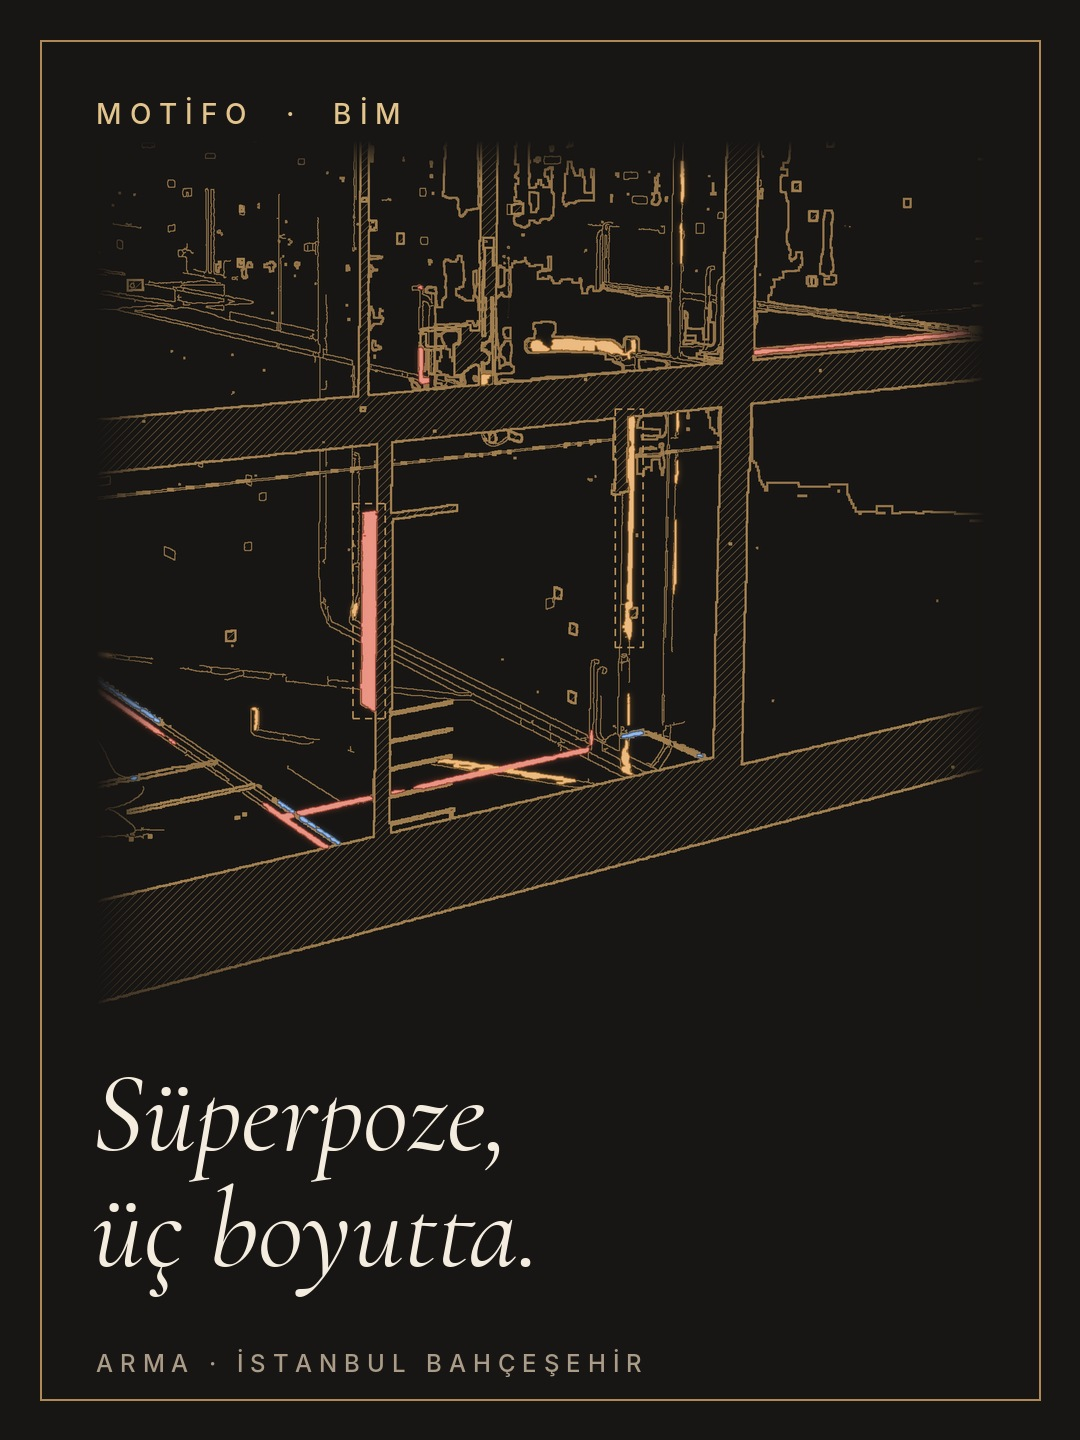
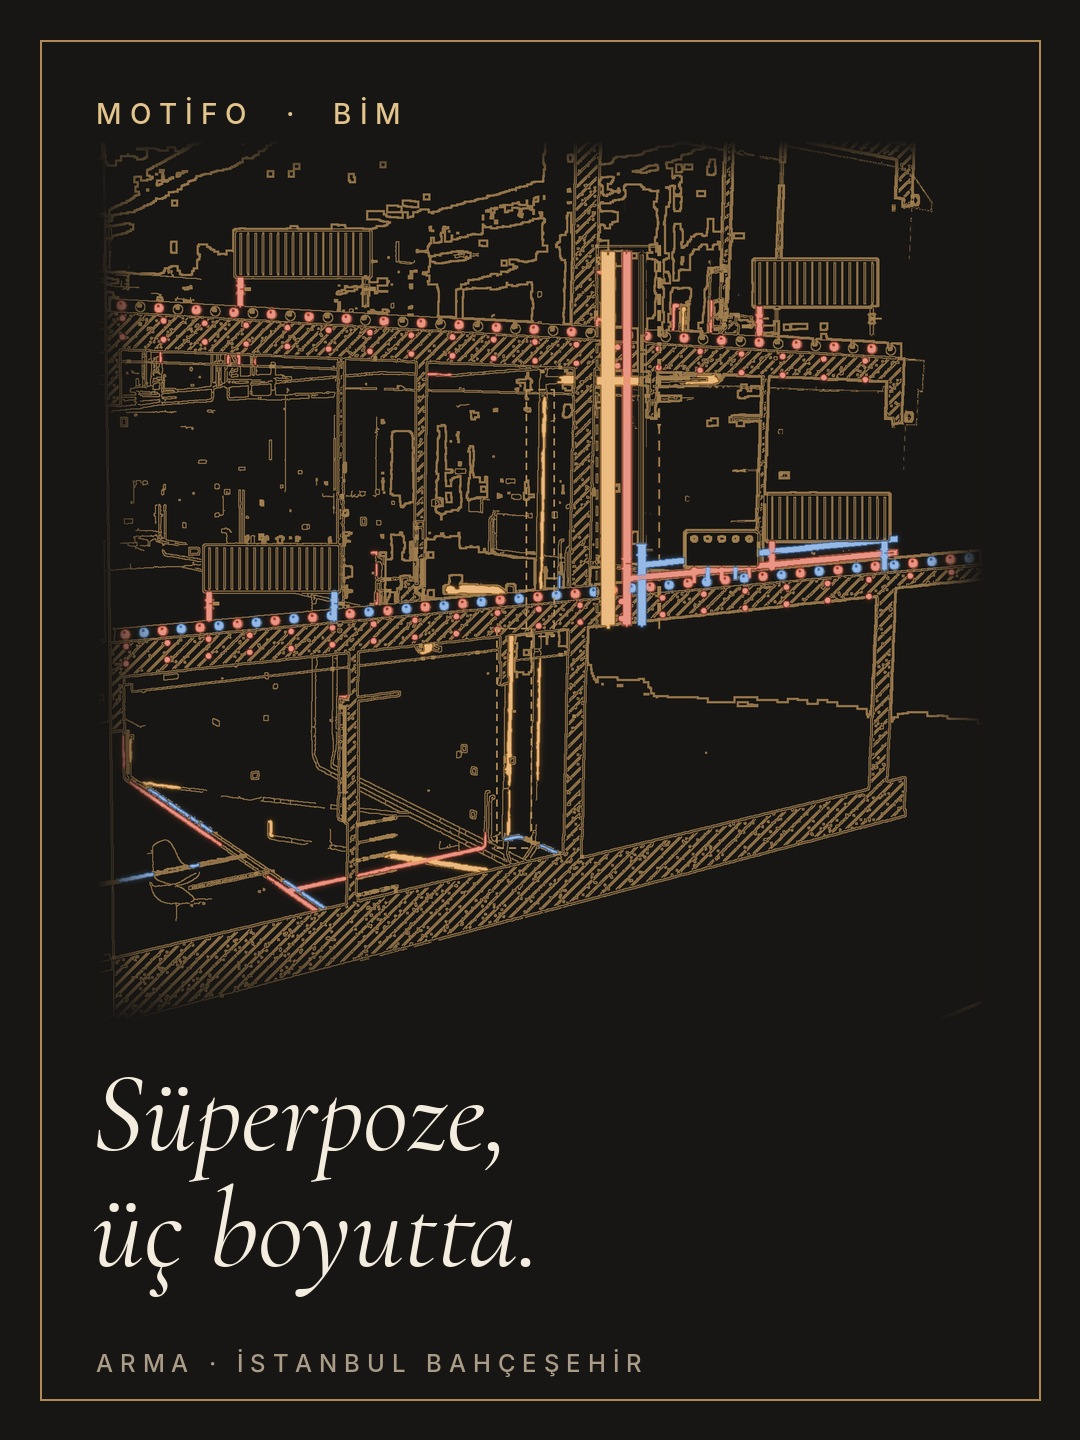
BİM görseli yeniden oluşturma: betonarme kesit, yerden ısıtma, şaft, vana, kollektör, radyatör
Claude-Session: https://claude.ai/code/session_0153ZLKWfsGDyD3Fcx9smq56

Changed region(s): [[0.0917, 0.0938, 0.9167, 0.7188], [0.7944, 0.0938, 0.8556, 0.1562], [0.2444, 0.0938, 0.275, 0.125]]

diff --git a/araclar/bim2d/zengin.py b/araclar/bim2d/zengin.py
@@ -1,0 +1,103 @@
+# Arma BİM görüntüsünü yeniden oluştur: siyah kesit → renkli betonarme, şap içi yerden ısıtma,
+# şaft + kolonlar + vanalar, radyatör, kollektör; mevcut boruları kalınlaştır/parlat.
+import numpy as np, cv2
+from PIL import Image, ImageDraw, ImageFilter
+RED=(206,62,46); BLUE=(44,104,196); ORNG=(226,150,52); GREEN=(64,150,92)
+def tube(d,pts,col,w):
+    d.line(pts,fill=col,width=w,joint='curve')
+    hl=tuple(min(255,int(c*0.45+255*0.55)) for c in col)
+    d.line([(x,y-w*0.22) for x,y in pts],fill=hl,width=max(1,w//4),joint='curve')
+    dk=tuple(int(c*0.6) for c in col)
+    d.line([(x,y+w*0.3) for x,y in pts],fill=dk,width=max(1,w//5),joint='curve')
+def valve(d,x,y,col,s=12,yatay=False):
+    if yatay: d.polygon([(x-s,y-s),(x+s,y+s),(x+s,y-s),(x-s,y+s)],fill=col,outline=(30,28,26))
+    else: d.polygon([(x-s,y-s),(x+s,y-s),(x-s,y+s),(x+s,y+s)],fill=col,outline=(30,28,26))
+    d.line([(x,y),(x+(0 if yatay else s+8),y-(s+8 if yatay else 0))],fill=(30,28,26),width=3)
+def concrete(shape,seed=3):
+    rng=np.random.default_rng(seed); h,w=shape
+    base=np.ones((h,w,3),np.float32)*np.array([184,178,168],np.float32)
+    n=cv2.GaussianBlur(rng.standard_normal((h,w)).astype(np.float32),(0,0),2.5)*9
+    base+=n[...,None]
+    agg=(rng.random((h,w))>0.993).astype(np.uint8); agg=cv2.dilate(agg,np.ones((3,3),np.uint8))
+    base[agg>0]=base[agg>0]*0.72
+    yy,xx=np.mgrid[0:h,0:w]; hatch=((xx+yy)%18<2)
+    base[hatch]=base[hatch]*0.82
+    return base
+def slab_edges(mask):
+    """Geniş yatay koyu bileşenler için üst kenar doğrusu (y=a*x+b) ve x aralığı."""
+    mask=cv2.morphologyEx(mask,cv2.MORPH_OPEN,np.ones((1,90),np.uint8))
+    nl,lab,st,_=cv2.connectedComponentsWithStats(mask,8); out=[]
+    for i in range(1,nl):
+        x,y,w,h,ar=st[i]
+        if w<800: continue
+        xs=np.arange(x+10,x+w-10,8); ys=[]
+        for cx in xs:
+            col=np.where(lab[y:y+h,cx]==i)[0]
+            ys.append(y+col.min() if len(col) else np.nan)
+        ys=np.array(ys,float); ok=~np.isnan(ys)
+        if ok.sum()<10: continue
+        a,b=np.polyfit(xs[ok],ys[ok],1)
+        # alt kenar
+        yb=[]
+        for cx in xs:
+            col=np.where(lab[y:y+h,cx]==i)[0]; yb.append(y+col.max() if len(col) else np.nan)
+        yb=np.array(yb,float); a2,b2=np.polyfit(xs[~np.isnan(yb)],yb[~np.isnan(yb)],1)
+        th=np.nanmedian(yb-ys)
+        if th>70 or th<12: continue           # döşeme kalınlığı aralığı
+        out.append(dict(x0=x,x1=x+w,a=a,b=b,th=th))
+    return sorted(out,key=lambda s:s['b'])
+def zenginlestir(img,shaft_x=None,radyator=None,seed=3):
+    a=np.asarray(img.convert('RGB')).astype(np.float32); H,W=a.shape[:2]
+    g=cv2.cvtColor(a.astype(np.uint8),cv2.COLOR_RGB2GRAY)
+    dark=(g<55).astype(np.uint8); dark=cv2.morphologyEx(dark,cv2.MORPH_OPEN,np.ones((3,3),np.uint8))
+    # 1) betonarme kesit
+    conc=concrete((H,W),seed); m=cv2.GaussianBlur(dark.astype(np.float32),(0,0),0.7)[...,None]
+    out=a*(1-m)+conc*m
+    edge=cv2.morphologyEx(dark,cv2.MORPH_GRADIENT,np.ones((3,3),np.uint8)).astype(np.float32)[...,None]
+    out=out*(1-edge*0.9)+np.array([46,42,38],np.float32)*edge*0.9
+    # 2) mevcut renkli boruları doygunlaştır
+    hsv=cv2.cvtColor(out.clip(0,255).astype(np.uint8),cv2.COLOR_RGB2HSV).astype(np.float32)
+    col=(hsv[...,1]>90)&(hsv[...,2]>70); hsv[...,1][col]=np.minimum(255,hsv[...,1][col]*1.35)
+    out=cv2.cvtColor(hsv.clip(0,255).astype(np.uint8),cv2.COLOR_HSV2RGB)
+    im=Image.fromarray(out).convert('RGBA'); d=ImageDraw.Draw(im,'RGBA')
+    slabs=slab_edges(dark)
+    # 3) şap + yerden ısıtma + donatı
+    for s in slabs:
+        x0,x1=s['x0']+6,s['x1']-6; yt=lambda x:s['a']*x+s['b']
+        sc=22
+        d.polygon([(x0,yt(x0)-sc),(x1,yt(x1)-sc),(x1,yt(x1)),(x0,yt(x0))],fill=(236,226,206,235),outline=(120,108,92,255))
+        k=0
+        for x in np.arange(x0+18,x1-12,30):
+            c=RED if k%2==0 else BLUE; y=yt(x)-sc/2
+            d.ellipse([x-7,y-7,x+7,y+7],fill=c+(255,),outline=(40,36,32,255)); d.ellipse([x-3,y-5,x+1,y-1],fill=(255,255,255,170)); k+=1
+        for x in np.arange(x0+20,x1-10,66):          # donatı (alt ve üst) — yalnız beton içinde
+            for off in (9,s['th']-9):
+                y=yt(x)+off
+                if 0<=int(y)<H and dark[int(y),int(x)]: d.ellipse([x-3.5,y-3.5,x+3.5,y+3.5],fill=(120,40,32,255))
+    # 4) şaft: kolonlar + vanalar + katlarda branşman
+    if shaft_x and slabs:
+        sx0,sx1=shaft_x; ytop=slabs[0]['a']*sx0+slabs[0]['b']-150; ybot=slabs[-1]['a']*sx0+slabs[-1]['b']+slabs[-1]['th']
+        for yy in np.arange(ytop,ybot,26):
+            d.line([(sx0,yy),(sx0,yy+14)],fill=(60,54,48,255),width=3); d.line([(sx1,yy),(sx1,yy+14)],fill=(60,54,48,255),width=3)
+        d.line([(sx0,ytop),(sx1,ytop)],fill=(60,54,48,255),width=3)
+        cols=[(sx0+18,ORNG,20),(sx0+48,RED,12),(sx0+72,BLUE,12)]
+        for x,c,w in cols: tube(d,[(x,ytop+10),(x,ybot-4)],c,w)
+        for s in slabs[1:]:
+            yf=s['a']*sx0+s['b']
+            for (x,c,w),dy in zip(cols[1:],(30,52)):
+                y=yf-dy; valve(d,x,y-26,c,9)
+                xe=min(s['x1']-30,sx1+380); tube(d,[(x,y),(x,y-2),(xe,s['a']*xe+s['b']-dy)],c,9)
+            # kollektör
+            xm=sx1+40; ym=s['a']*xm+s['b']-22-74
+            d.rounded_rectangle([xm,ym,xm+120,ym+60],radius=6,fill=(214,208,198,255),outline=(60,54,48,255),width=3)
+            for j in range(5): d.line([(xm+16+j*22,ym+60),(xm+16+j*22,s['a']*(xm+16+j*22)+s['b']-11)],fill=(RED if j%2==0 else BLUE)+(255,),width=5)
+            for j in range(5): d.ellipse([xm+11+j*22,ym+8,xm+21+j*22,ym+18],fill=(60,54,48,255))
+    # 5) radyatörler
+    for (rx,rw,rh,si) in (radyator or []):
+        if si>=len(slabs): continue
+        s=slabs[si]; ry=int(s['a']*rx+s['b']-22-rh-44)
+        d.rounded_rectangle([rx,ry,rx+rw,ry+rh],radius=5,fill=(246,244,240,255),outline=(90,84,78,255),width=3)
+        for x in range(rx+10,rx+rw-6,12): d.line([(x,ry+6),(x,ry+rh-6)],fill=(170,164,156,255),width=2)
+        tube(d,[(rx+10,ry+rh),(rx+10,ry+rh+44)],RED,8); tube(d,[(rx+rw-10,ry+rh),(rx+rw-10,ry+rh+44)],BLUE,8)
+        valve(d,rx+10,ry+rh+18,RED,7); valve(d,rx+rw-10,ry+rh+18,BLUE,7)
+    return im.convert('RGB'),slabs

diff --git a/araclar/izgara.py b/araclar/izgara.py
@@ -397,7 +397,7 @@ def _mep_masks(a):
 def bim_eskiz_detay(src,no,name,loc,tur='BİM',kutu=None,koyu=True,zoom_hedef=None):
     BG_=(24,22,20) if koyu else STONE; AC=GOLD if koyu else BRONZE; TX=(236,228,214) if koyu else INK; MU=(170,156,136) if koyu else MUTE
     LN=np.array(GOLD if koyu else (88,70,54),np.float32); PAL=MEP_KOYU2 if koyu else MEP_KREM2
-    full=Image.open(src).convert('RGB'); 
+    full=(src if isinstance(src,Image.Image) else Image.open(src)).convert('RGB')
     if kutu: full=full.crop(kutu)
     bw,bh=W-2*96,880; full=cover(full,int(bw*1.8),int(bh*1.8))   # 1.8x çalış, sonra küçült
     a=np.asarray(full)
